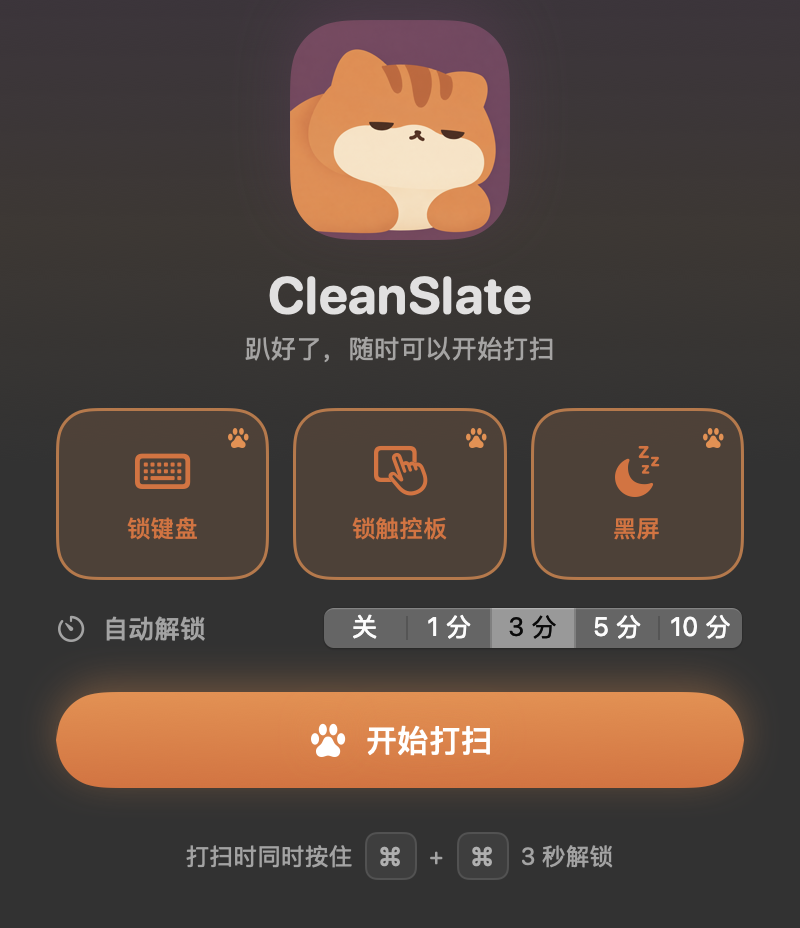
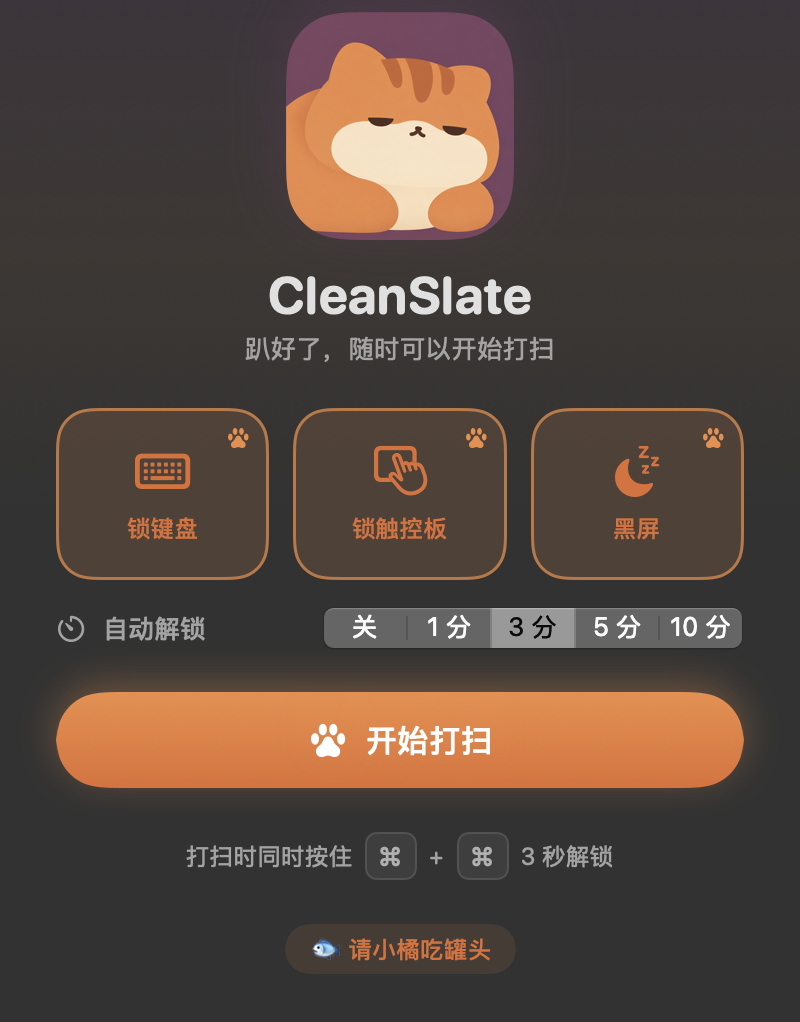
Add tip button and landing page
The app gets a "请小橘吃罐头" button that opens the support section of
a new GitHub Pages landing page in docs/. Payment and download links
are filled in later via the LINKS config at the bottom of the page.

Changed region(s): [[0.0625, 0.0, 0.9375, 0.875], [0.2188, 0.9062, 0.7812, 0.9375]]

diff --git a/docs/index.html b/docs/index.html
@@ -1,0 +1,212 @@
+<!doctype html>
+<html lang="zh-CN">
+<head>
+<meta charset="utf-8" />
+<meta name="viewport" content="width=device-width, initial-scale=1" />
+<title>CleanSlate · 小橘帮你守键盘</title>
+<meta name="description" content="一键锁住键盘和触控板、屏幕全黑，安心擦 Mac。同时按住两个 ⌘ 3 秒解锁。免费开源。" />
+<link rel="icon" href="assets/favicon.png" />
+<meta property="og:title" content="CleanSlate · 小橘帮你守键盘" />
+<meta property="og:description" content="一键锁住键盘和触控板、屏幕全黑，安心擦 Mac。" />
+<meta property="og:image" content="assets/icon.png" />
+<style>
+  :root {
+    --orange: #f08c45;
+    --orange-deep: #e06e33;
+    --plum: #6e4063;
+    --cream: #fdf6ee;
+    --bg: #fdf8f3;
+    --card: #ffffff;
+    --text: #2b2226;
+    --muted: #7a6d72;
+    --line: rgba(110, 64, 99, 0.12);
+    --shadow: 0 10px 30px rgba(110, 64, 99, 0.12);
+  }
+  @media (prefers-color-scheme: dark) {
+    :root {
+      --bg: #1c1719;
+      --card: #272023;
+      --text: #f3ece8;
+      --muted: #a8999e;
+      --line: rgba(255, 255, 255, 0.08);
+      --shadow: 0 10px 30px rgba(0, 0, 0, 0.4);
+    }
+  }
+  * { box-sizing: border-box; }
+  html { scroll-behavior: smooth; }
+  body {
+    margin: 0;
+    background: var(--bg);
+    color: var(--text);
+    font-family: ui-rounded, "SF Pro Rounded", -apple-system, BlinkMacSystemFont, "PingFang SC", "Hiragino Sans GB", sans-serif;
+    line-height: 1.6;
+    -webkit-font-smoothing: antialiased;
+  }
+  a { color: inherit; }
+  .wrap { max-width: 960px; margin: 0 auto; padding: 0 20px; }
+
+  nav { display: flex; align-items: center; justify-content: space-between; padding: 20px 0; }
+  nav .brand { display: flex; align-items: center; gap: 10px; font-weight: 700; text-decoration: none; }
+  nav .brand img { width: 32px; height: 32px; }
+  nav .links a { margin-left: 20px; color: var(--muted); text-decoration: none; font-size: 15px; }
+  nav .links a:hover { color: var(--orange-deep); }
+
+  .hero {
+    text-align: center;
+    padding: 48px 0 32px;
+    background: radial-gradient(ellipse at top, rgba(110, 64, 99, 0.16), transparent 60%);
+  }
+  .hero .icon { width: 148px; height: 148px; filter: drop-shadow(0 16px 24px rgba(110, 64, 99, 0.3)); animation: breathe 4s ease-in-out infinite; transform-origin: bottom center; }
+  @keyframes breathe { 50% { transform: scale(1.025); } }
+  @media (prefers-reduced-motion: reduce) { .hero .icon { animation: none; } }
+  .hero h1 { font-size: clamp(34px, 6vw, 52px); margin: 18px 0 6px; letter-spacing: -0.02em; }
+  .hero p.tag { font-size: clamp(17px, 2.6vw, 21px); color: var(--muted); margin: 0 auto 28px; max-width: 32em; }
+  .buttons { display: flex; flex-wrap: wrap; gap: 12px; justify-content: center; }
+  .btn {
+    display: inline-flex; align-items: center; gap: 8px;
+    padding: 13px 26px; border-radius: 999px; font-weight: 600; font-size: 16px;
+    text-decoration: none; transition: transform .15s ease, box-shadow .15s ease;
+  }
+  .btn:hover { transform: translateY(-1px); }
+  .btn.primary { color: #fff; background: linear-gradient(var(--orange), var(--orange-deep)); box-shadow: 0 8px 20px rgba(240, 140, 69, 0.35); }
+  .btn.ghost { border: 1.5px solid var(--line); background: var(--card); }
+  .hero small { display: block; margin-top: 14px; color: var(--muted); font-size: 13px; }
+
+  section { padding: 56px 0; }
+  h2 { text-align: center; font-size: clamp(24px, 4vw, 32px); margin: 0 0 8px; }
+  .sub { text-align: center; color: var(--muted); margin: 0 0 36px; }
+
+  .grid { display: grid; grid-template-columns: repeat(auto-fit, minmax(200px, 1fr)); gap: 16px; }
+  .card { background: var(--card); border: 1px solid var(--line); border-radius: 22px; padding: 24px; box-shadow: var(--shadow); }
+  .card .emoji { font-size: 30px; }
+  .card h3 { margin: 10px 0 6px; font-size: 18px; }
+  .card p { margin: 0; color: var(--muted); font-size: 15px; }
+
+  .steps { counter-reset: step; }
+  .steps .card h3::before {
+    counter-increment: step; content: counter(step);
+    display: inline-grid; place-items: center; width: 26px; height: 26px; margin-right: 8px;
+    border-radius: 50%; background: var(--orange); color: #fff; font-size: 14px;
+  }
+  kbd {
+    display: inline-block; min-width: 24px; padding: 1px 6px; border-radius: 6px; text-align: center;
+    border: 1px solid var(--line); background: var(--bg); font-family: inherit; font-weight: 600;
+  }
+
+  .shots { display: flex; flex-wrap: wrap; gap: 20px; justify-content: center; }
+  .shots img { width: min(360px, 100%); border-radius: 22px; box-shadow: var(--shadow); border: 1px solid var(--line); }
+
+  .support { text-align: center; background: var(--card); border: 1px solid var(--line); border-radius: 28px; padding: 40px 24px; box-shadow: var(--shadow); }
+  .support .can { font-size: 46px; }
+  .support p { color: var(--muted); max-width: 30em; margin: 8px auto 24px; }
+
+  footer { text-align: center; color: var(--muted); font-size: 13px; padding: 40px 0 56px; }
+  footer a { color: var(--muted); }
+
+  @media (max-width: 520px) {
+    nav .links a:not(.gh) { display: none; }
+  }
+</style>
+</head>
+<body>
+  <div class="wrap">
+    <nav>
+      <a class="brand" href="#"><img src="assets/icon.png" alt="" />CleanSlate</a>
+      <div class="links">
+        <a href="#features">功能</a>
+        <a href="#how">怎么用</a>
+        <a href="#support">支持小橘</a>
+        <a class="gh" href="https://github.com/SEUWanglibo/CleanSlate">GitHub</a>
+      </div>
+    </nav>
+  </div>
+
+  <header class="hero">
+    <div class="wrap">
+      <img class="icon" src="assets/icon.png" alt="CleanSlate 图标：一只趴着打盹的橘猫" />
+      <h1>CleanSlate</h1>
+      <p class="tag">一键锁住键盘和触控板、屏幕全黑。<br />小橘帮你守着，安心把 Mac 擦干净。</p>
+      <div class="buttons">
+        <a class="btn primary" id="download" href="https://github.com/SEUWanglibo/CleanSlate#安装">🐾 免费获取</a>
+        <a class="btn ghost" href="https://github.com/SEUWanglibo/CleanSlate">⭐ 在 GitHub 上 Star</a>
+      </div>
+      <small>免费开源 · macOS 13 及以上 · MIT 协议</small>
+    </div>
+  </header>
+
+  <main class="wrap">
+    <section id="features">
+      <h2>擦电脑，再也不怕误触</h2>
+      <p class="sub">三个开关随意组合，想锁什么锁什么</p>
+      <div class="grid">
+        <div class="card"><div class="emoji">⌨</div><h3>锁键盘</h3><p>所有按键都被拦住，连音量、亮度键也不会乱跳。</p></div>
+        <div class="card"><div class="emoji">🖱</div><h3>锁触控板</h3><p>点击、滑动、滚动统统无效，光标也藏起来。</p></div>
+        <div class="card"><div class="emoji">🌙</div><h3>黑屏</h3><p>所有显示器变成纯黑，灰尘和指纹一眼就能看见。</p></div>
+        <div class="card"><div class="emoji">⏱</div><h3>自动解锁</h3><p>1 到 10 分钟后自动解锁，永远不会把自己锁在外面。</p></div>
+      </div>
+    </section>
+
+    <section id="how">
+      <h2>三步搞定</h2>
+      <p class="sub">第一次用建议先只开「黑屏」试试</p>
+      <div class="grid steps">
+        <div class="card"><h3>选好要锁的</h3><p>点亮键盘、触控板、黑屏中想要的几项。</p></div>
+        <div class="card"><h3>开始打扫</h3><p>点「开始打扫」，小橘就睡在屏幕上替你看着。</p></div>
+        <div class="card"><h3>叫醒小橘</h3><p>同时按住左右两个 <kbd>⌘</kbd> <kbd>⌘</kbd> 3 秒，爪印转满就解锁。</p></div>
+      </div>
+    </section>
+
+    <section>
+      <h2>浅色深色都好看</h2>
+      <p class="sub">跟随系统外观自动切换</p>
+      <div class="shots">
+        <img src="screenshot-light.png" alt="CleanSlate 浅色模式界面" loading="lazy" />
+        <img src="screenshot-dark.png" alt="CleanSlate 深色模式界面" loading="lazy" />
+      </div>
+    </section>
+
+    <section id="support">
+      <div class="support">
+        <div class="can">🐟</div>
+        <h2>请小橘吃个罐头</h2>
+        <p>CleanSlate 免费开源。如果它帮你把 Mac 擦得干干净净，欢迎给个 Star，或者请小橘吃个罐头，支持它继续长胖。</p>
+        <div class="buttons" id="support-buttons">
+          <a class="btn ghost" href="https://github.com/SEUWanglibo/CleanSlate">⭐ 给个 Star</a>
+        </div>
+      </div>
+    </section>
+  </main>
+
+  <footer>
+    <div class="wrap">
+      Made with 🧡 by <a href="https://github.com/SEUWanglibo">WANGLIBO</a> ·
+      <a href="https://github.com/SEUWanglibo/CleanSlate/blob/main/LICENSE">MIT License</a>
+    </div>
+  </footer>
+
+<script>
+  // 开通收款或发布安装包后，在这里填链接，对应按钮会自动出现
+  const LINKS = {
+    download: "",   // 例如 GitHub Release 或 Gumroad 的下载 / 购买地址
+    afdian: "",     // 爱发电主页
+    sponsors: "",   // GitHub Sponsors，例如 https://github.com/sponsors/SEUWanglibo
+  };
+
+  if (LINKS.download) {
+    const btn = document.getElementById("download");
+    btn.href = LINKS.download;
+    btn.textContent = "🐾 下载 CleanSlate";
+  }
+  const support = document.getElementById("support-buttons");
+  const addButton = (href, label, primary) => {
+    const a = document.createElement("a");
+    a.className = primary ? "btn primary" : "btn ghost";
+    a.href = href;
+    a.textContent = label;
+    support.prepend(a);
+  };
+  if (LINKS.sponsors) addButton(LINKS.sponsors, "💖 GitHub Sponsors", false);
+  if (LINKS.afdian) addButton(LINKS.afdian, "🐟 去爱发电投喂", true);
+</script>
+</body>
+</html>

diff --git a/Sources/CleanSlate/CleanSlateApp.swift b/Sources/CleanSlate/CleanSlateApp.swift
@@ -26,6 +26,7 @@ struct ContentView: View {
     @ObservedObject var controller: CleanupController
 
     private static let autoUnlockChoices = [0, 1, 3, 5, 10]
+    private static let supportURL = URL(string: "https://seuwanglibo.github.io/CleanSlate/#support")!
 
     var body: some View {
         VStack(spacing: 22) {
@@ -76,6 +77,19 @@ struct ContentView: View {
             }
 
             unlockHint
+
+            Button {
+                NSWorkspace.shared.open(Self.supportURL)
+            } label: {
+                Text("🐟 请小橘吃罐头")
+                    .font(Theme.rounded(12, .medium))
+                    .foregroundColor(Theme.orangeDeep)
+                    .padding(.horizontal, 12)
+                    .padding(.vertical, 5)
+                    .background(Capsule().fill(Theme.orange.opacity(0.1)))
+            }
+            .buttonStyle(.plain)
+            .help("喜欢的话，支持一下开发者")
 
             if let error = controller.errorMessage {
                 Text(error).font(Theme.rounded(12)).foregroundColor(.red)
